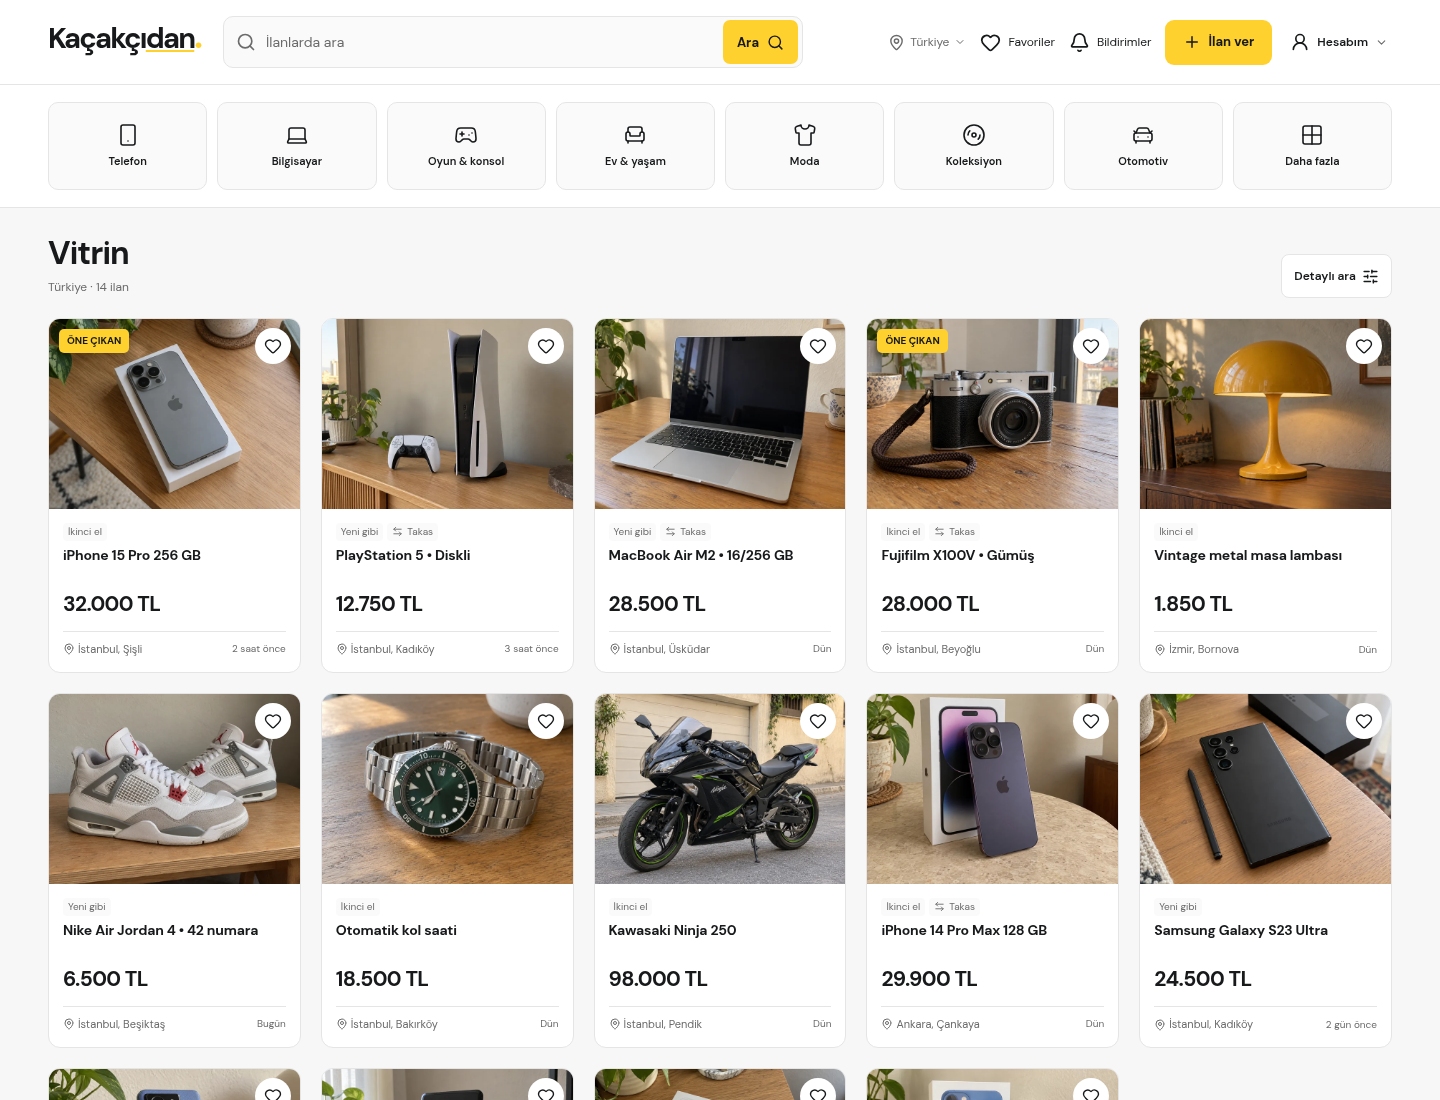
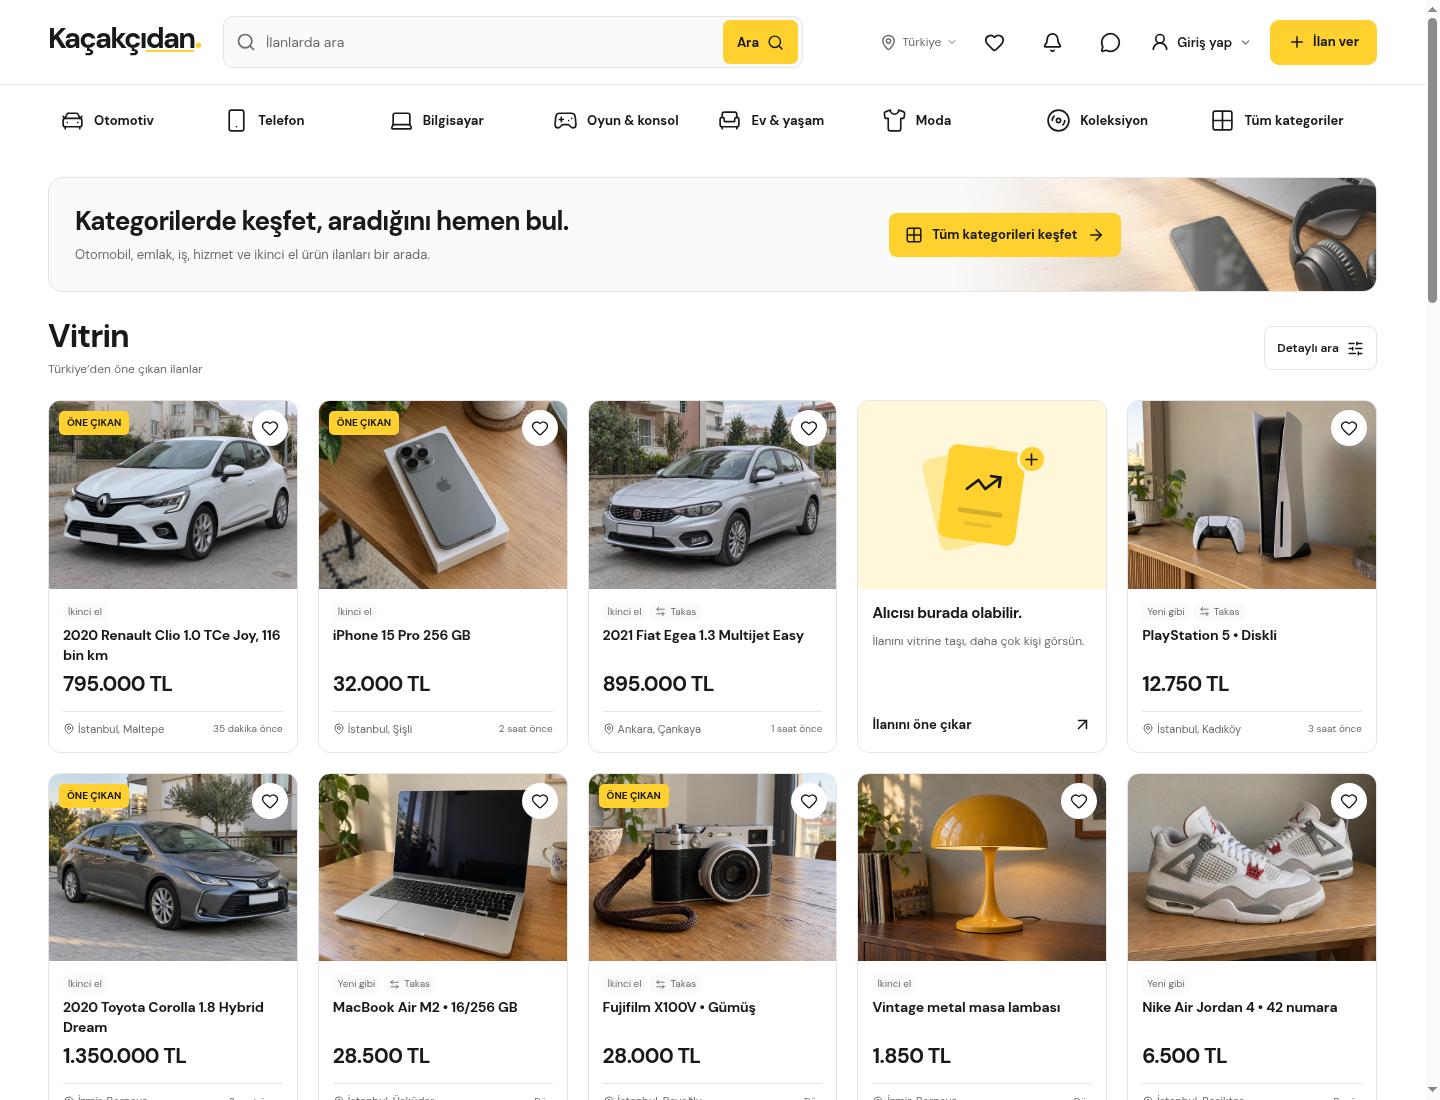
Kaçakçıdan - README ve ekran görüntüleri güncellendi

diff --git a/app/+html.tsx b/app/+html.tsx
@@ -29,11 +29,19 @@ export default function Html({ children }: PropsWithChildren) {
         <meta property="og:image:width" content="1200" />
         <meta property="og:image:height" content="630" />
         <meta property="og:image:type" content="image/png" />
-        <meta property="og:image:alt" content="Kaçakçıdan. Mal burada, pazarlık sende." />
+        <meta
+          property="og:image:alt"
+          content="Kaçakçıdan ana sayfasında ilan arama, kategoriler ve vitrin."
+        />
         <meta name="twitter:image" content={paylasimGorseli} />
-        <meta name="twitter:image:alt" content="Kaçakçıdan. Mal burada, pazarlık sende." />
+        <meta
+          name="twitter:image:alt"
+          content="Kaçakçıdan ana sayfasında ilan arama, kategoriler ve vitrin."
+        />
         <link rel="icon" type="image/png" href="/favicon.png" />
         <link rel="apple-touch-icon" sizes="180x180" href="/apple-touch-icon.png" />
+        <link rel="preload" href="/fonts/dm-sans-400.ttf" as="font" type="font/ttf" crossOrigin="anonymous" />
+        <link rel="preload" href="/fonts/dm-sans-700.ttf" as="font" type="font/ttf" crossOrigin="anonymous" />
         {headNodes}
       </head>
       <body {...bodyAttributes}>

diff --git a/README.md b/README.md
@@ -1,9 +1,9 @@
 <h1 align="center">Kaçakçıdan</h1>
 
-<p align="center"><strong>Mal burada, pazarlık sende.</strong></p>
+<p align="center"><strong>İkinci el online ilan ve alışveriş sitesi</strong></p>
 
 <p align="center">
-  Expo, React Native ve TypeScript ile geliştirdiğim ikinci el alışveriş pazaryeri. Web, iOS ve Android için ortak kod tabanı.
+  Expo, React Native ve TypeScript ile web, iOS ve Android için geliştirildi.
 </p>
 
 <p align="center">
@@ -17,80 +17,37 @@
 ## Ekran görüntüleri
 
 <p align="center">
-  <img src="screenshots/anasayfa-masaustu.png" alt="Kaçakçıdan ana sayfasının masaüstü görünümü" width="71.5%" />
-  <img src="screenshots/anasayfa-mobil.png" alt="Kaçakçıdan ana sayfasının mobil görünümü" width="25.2%" />
+  <img src="screenshots/anasayfa-masaustu.png" alt="Kaçakçıdan ana sayfası, masaüstü görünümü" width="71.5%" />
+  <img src="screenshots/anasayfa-mobil.png" alt="Kaçakçıdan ana sayfası, mobil görünümü" width="25.2%" />
 </p>
 
-Masaüstü ana sayfasında beş sütunlu ilan ızgarası var. Mobilde yatay kategori şeridi, iki sütunlu ilan kartları ve alt gezinme yer alıyor. İlan arama ekranında ise masaüstü kategori ağacı ile sonuçlar yan yana açılıyor.
+## Proje
 
-## Proje hakkında
+Kaçakçıdan, farklı kategorilerdeki ikinci el ilanları bulup paylaşmak için geliştirilmiş bir pazar yeri arayüzüdür. Arama ve kategori gezinmesiyle ilanlara ulaşabilir; ürün bilgilerini inceleyip satıcıyla iletişim kurabilirsiniz.
 
-Kaçakçıdan’ı geliştirirken en çok ilan arama ve ilan verme akışlarına zaman ayırdım. Bir telefona bakarken depolama kapasitesini bulmak, alt kategoriler arasında geri dönmek ya da klavye açıkken mesaj göndermek kolay olmalı. Ekran düzenini bu işler üzerinden kurdum.
+Arayüzü tasarlarken ilan bulma ve verme akışlarının anlaşılır olmasına, gerekli bilgilerin kolay karşılaştırılmasına ve web ile mobil ekranlarda rahat kullanılmasına odaklandım.
 
-Proje ön yüzü kapsıyor. Hesaplar ve ilan etkileşimlerine ait kayıtlar cihazda tutuluyor; veri saklama sınırlarını aşağıda ayrıca anlattım.
+## Kullanım
 
-## Kullanıcı deneyimi için verdiğim kararlar
+- Kategori, marka ve modele göre gezinme; arama önerileri ve kategoriye uygun filtreler
+- Fotoğraf ve video galerisi, ilan özellikleri, favoriler, mesajlaşma ve ilan hakkında soru-cevap
+- İlan oluşturma ve düzenleme adımları, profil ve hesap ayarları
+- Açık ve koyu tema; farklı ekran boyutlarına uyumlu sayfalar ve menüler
 
-### Kategoriye ulaşmak
+## Performans
 
-Ana sayfada kategoriler ve ilanlar doğrudan görünüyor. İlk kategori şeridini kısa tuttum, kalan kategoriler “Daha fazla” ile açılıyor. Yatay kaydırılabilen alanların kenarındaki gölge, devamında içerik olduğunu gösteriyor.
-
-Kategori seçildiğinde o seviyenin alt kategorileri açılıyor. Seçilen yol görünür kalıyor, kullanıcı üst seviyeye dönebiliyor. Bu yapı mobilde de ilanların üzerinde bulunuyor; alt kategoriye ulaşmak için filtre penceresini açmak gerekmiyor. Marka ve model seçimleri kategoriye bağlı. Telefon için seçilen marka, mobilyaya geçildiğinde taşınmıyor.
-
-### Arama ve filtreler
-
-Yazarken ilan, anahtar kelime ve kategori önerileri çıkıyor. Arama Türkçe karakterleri, marka ve model adlarını da dikkate alıyor. Klavyeyle öneriler arasında ilerlemek ve aramayı Enter ile göndermek mümkün.
-
-Teknik özellikleri kategoriye göre tanımladım. Telefonda depolama ve ekran bilgileri, araçta yakıt ve vites, giyimde beden gibi ilgili alanlar gösteriliyor. İl ve ilçe birbirine bağlı seçim listeleri kullanıyor. Uygulanan filtreler sonuçların üstünde görülebiliyor ve tek tek kaldırılabiliyor.
-
-### İlanı değerlendirmek
-
-İlan detayında fiyat, ürün durumu ve satıcıya ulaşma eylemi ilk bakışta bulunabiliyor. Fotoğraf alanını açıklama ve özellikleri aşağı itecek kadar büyük tutmadım. Küçük görsellerle fotoğraf değiştirmek, galeriyi tam ekranda açıp yakınlaştırmak ve video izlemek mümkün. Mobilde fiyat ile mesaj düğmesi alt gezinmenin hemen üzerinde kalıyor.
-
-Mesajlaşmanın yanında ilana soru sorma alanı var. İlan sahibi yanıt verebiliyor, yanıtın herkese görünmesini ya da gizlenmesini seçebiliyor. Soru ve yanıt bildirimleri doğrudan ilgili ilana götürüyor. İlan numarası düzenlemede korunuyor, görüntülenme ve favori sayıları ise sahibinin ilan yönetiminde gösteriliyor.
-
-### Formları tamamlamak
-
-İlan oluşturma ve düzenleme aynı adımlı formu kullanıyor. Kategori seçimine göre alanlar değişiyor, önceki adımlara dönüldüğünde girilen bilgiler korunuyor. Hesap oluşturma da kısa adımlara ayrılmış durumda. Hatalar ilgili alanın yanında gösteriliyor.
-
-Mobil tarayıcıda klavyenin açılması ekran yüksekliğini değiştiriyor. Formlarda ve mesaj kutusunda görünen ekran alanını takip ediyor, yazılan alanın görünür kalması için kaydırmayı ayarlıyorum. Yerel uygulamada iOS ve Android’in klavye davranışlarını ayrı ele aldım. Seçim pencereleri de kullanılabilir yüksekliğe göre boyutlanıyor.
-
-### Hesap ve görünüm
-
-Hesap bilgileri mobil menünün en üstünde. Profilde ilan yönetimi, ayarlarda profil bilgileri ve hesap tercihleri bulunuyor. Profil fotoğrafı eklenebiliyor, e-posta adresi profil kartında gösterilmiyor. Favoriye eklemek ve soru göndermek giriş gerektiriyor.
-
-Açık ve koyu temalar ortak renk tanımlarıyla çalışıyor. Sistem görünümünü izlemek veya ayrı tercih kaydetmek mümkün. Sarı düğmelerde yazı ve simge rengi iki temada da koyu. Odak göstergeleri, klavyeyle gezinme ve sistemin azaltılmış hareket tercihi ortak bileşenlerde ele alınıyor.
-
-## Performans yaklaşımı
-
-Performans tarafında görsel yükleme, arama sırasında yapılan hesaplamalar ve ekran hareketleri üzerinde durdum.
-
-| Alan               | Uygulama                                                                                                                                                                                                        |
-| ------------------ | --------------------------------------------------------------------------------------------------------------------------------------------------------------------------------------------------------------- |
-| İlan görselleri    | İlk görünen görseller öncelikli, aşağıdaki görseller gecikmeli yükleniyor. Kartlarda en boy oranı baştan ayrılıyor. Yerel uygulamada bellek ve disk önbelleği kullanılıyor.                                     |
-| Galeri ve video    | Galeride yakın görseller önceden hazırlanıyor. Video seçilene kadar oynatıcı ekrana eklenmiyor, küçük görsel olarak ayrı bir kapak kullanılıyor. Görsel değişince video durduruluyor.                           |
-| Arama ve sonuçlar  | Öneriler ve filtre sonuçları bağımlılıklarına göre hesaplanıyor. Sonuç ekranında sorgu `useDeferredValue` ile erteleniyor, ilan kartları `memo` kullanıyor.                                                     |
-| Kaydırma ve klavye | Tarayıcıdaki görünür alan değişiklikleri `requestAnimationFrame` ile birleştiriliyor. Kategori şeridi, kenar gölgesi değişmediği sürece her kaydırma olayında yeniden çizilmiyor.                               |
-| Hareket ve yükleme | Geçişler kısa, animasyonlar ağırlıklı olarak saydamlık ve dönüşüm üzerinden çalışıyor. Bekleyen içerik kendi düzenine uygun yükleme iskeletiyle gösteriliyor. Azaltılmış hareket açıkken iskelet sabit kalıyor. |
-
-Webde tarayıcının kendi iletişim kutusu ve açılır pencere davranışlarından yararlanıyorum. Yerel uygulamada aynı işi React Native bileşenleri üstleniyor. Bu ayrım, tek bileşene bütün platformların davranışlarını yüklememeyi sağlıyor.
+Projede kullanılan ilan görselleri WebP biçimindedir; ekrandan uzaktaki görseller gecikmeli yüklenir. Arama sonuçları ve uzun ilan listeleri gereksiz yeniden çizimleri azaltacak şekilde düzenlenmiştir. Hareketler kısa tutulur ve azaltılmış hareket tercihi dikkate alınır.
 
 ## Yerelde çalıştırma
 
-Node.js `24.3` veya üzeri `24.x` ve npm gerekir. Sürüm yöneticisi olarak `nvm` kullanıyorsan proje sürümünü `.nvmrc` dosyasından seçebilirsin.
+Node.js `24.x` (en az `24.3.0`) ve npm gerekir.
 
 ```bash
 npm ci
 npm run web
 ```
 
-Expo geliştirme sunucusunu açmak için `npm start`; Android simülatöründe çalıştırmak için `npm run android` kullan. iOS simülatörü için macOS ve Xcode gerekir:
-
-```bash
-npm run ios
-```
-
-Web çıktısını üretip yerelde görüntülemek için:
+Android için `npm run android`, iOS simülatörü için macOS ve Xcode üzerinde `npm run ios` komutunu kullanabilirsiniz. Web derlemesini üretmek ve yerelde görüntülemek için:
 
 ```bash
 npm run build
@@ -108,25 +65,19 @@ npm run build
 ## Proje yapısı
 
 ```text
-app/                    Expo Router sayfaları
-src/
-  bilesenler/           Arama, kategori ağacı, ilan kartı, galeri ve ortak kontroller
-  ekranlar/             Uygulama ekranları
-  durum/                Hesap, pazar durumu ve medya saklama
-  tasarim/              Tema, ekran ölçüleri ve hareket tercihleri
-  veri/                 İlanlar, kategoriler, konumlar ve arama
-public/                 Uygulama görselleri, fontlar ve video
-screenshots/            README’de kullanılan masaüstü ve mobil görüntüler
-scripts/                Web derleme araçları
+app/                    Expo Router yönlendirmeleri
+src/bilesenler/         Ortak arayüz bileşenleri
+src/ekranlar/           Uygulama ekranları
+src/durum/              Uygulama ve cihazdaki kayıtların yönetimi
+src/tasarim/            Tema ve ekran stilleri
+src/veri/               Kategoriler, ilanlar ve filtre tanımları
+public/                 Görseller, yazı tipleri ve diğer statik dosyalar
+screenshots/            README ekran görüntüleri
 ```
-
-Webe özgü bileşenler `.web.tsx` uzantısıyla ayrılıyor. Kategori ağacı ve teknik özellik tanımları, arama ile ilan formunun kullandığı ortak veri yapılarında tutuluyor.
 
 ## Veri saklama
 
-Hesap, ilan, favori, mesaj, soru-cevap ve bildirim kayıtları cihazda saklanıyor. Webde seçilen fotoğraf ve videolar IndexedDB’de tutuluyor. Yerel uygulamada seçicinin verdiği dosya adresleri kaydediliyor, dosyalar ayrı bir kalıcı dizine kopyalanmıyor. İlan numaraları ve istatistikler de bu kayıtlar üzerinden çalışıyor.
-
-Farklı cihazlar arasında hesap eşitleme, gerçek zamanlı uzaktan mesajlaşma ve ödeme için sunucu bağlantısı gerekiyor. Bu depoda sunucu uygulaması bulunmuyor. Tarayıcı veya uygulama verilerini temizlemek yerel kayıtları da siliyor.
+Bu depoda sunucu bağlantısı bulunmuyor. Hesap, ilan, favori ve mesaj kayıtları kullanıldıkları tarayıcıda veya cihazda saklanır; cihazlar arasında eşitlenmez. Tarayıcı ya da uygulama verilerini temizlemek bu kayıtları da siler.
 
 ## Lisans
 
